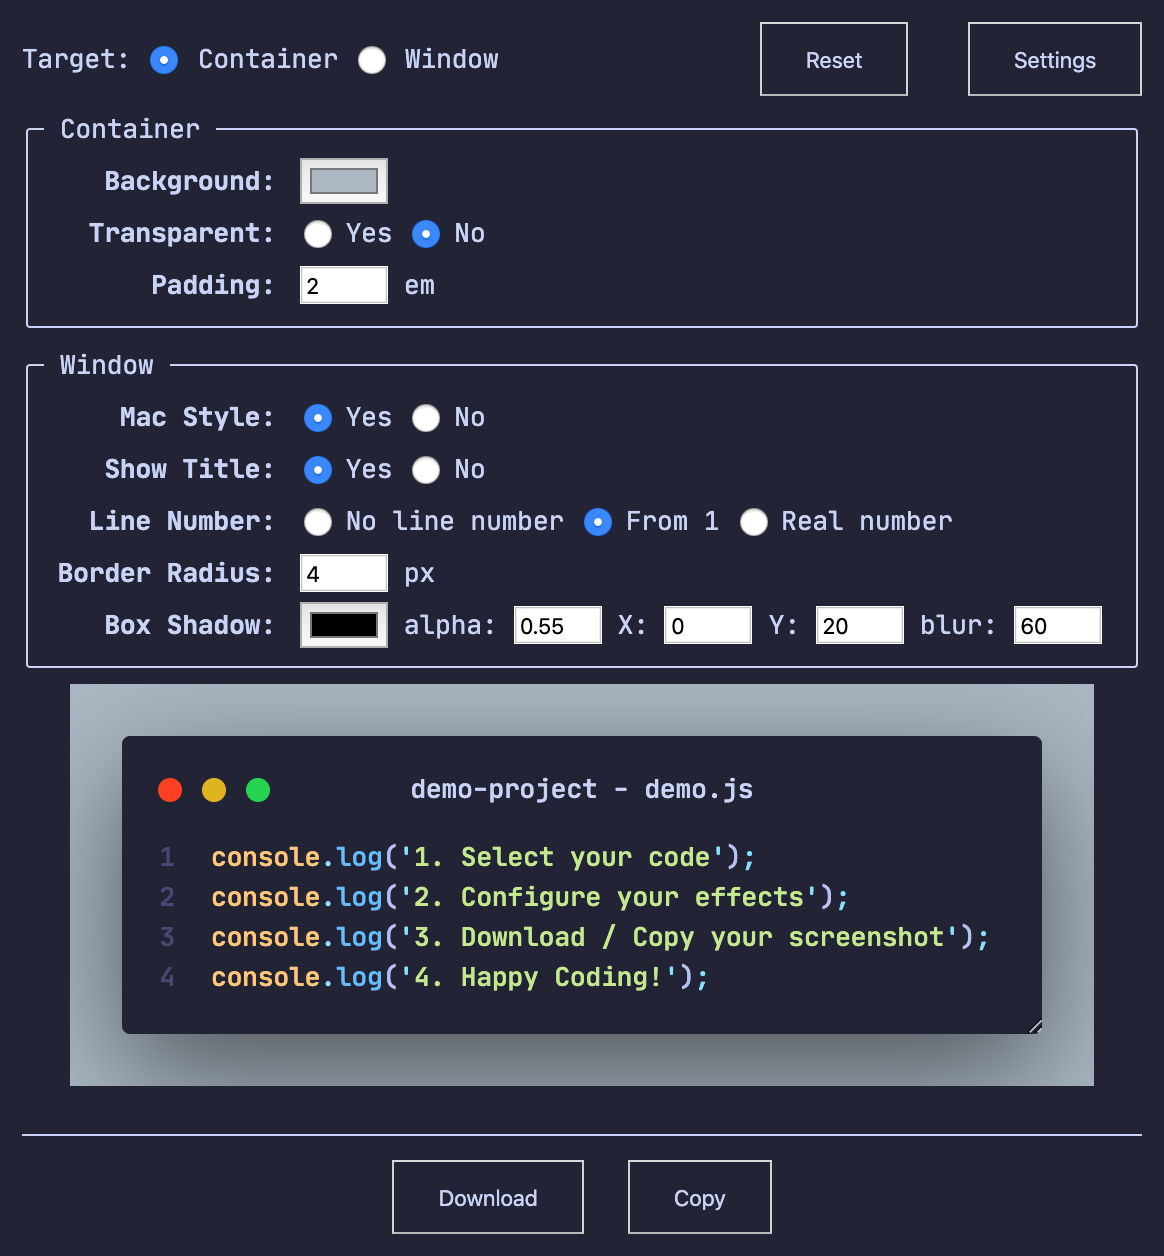
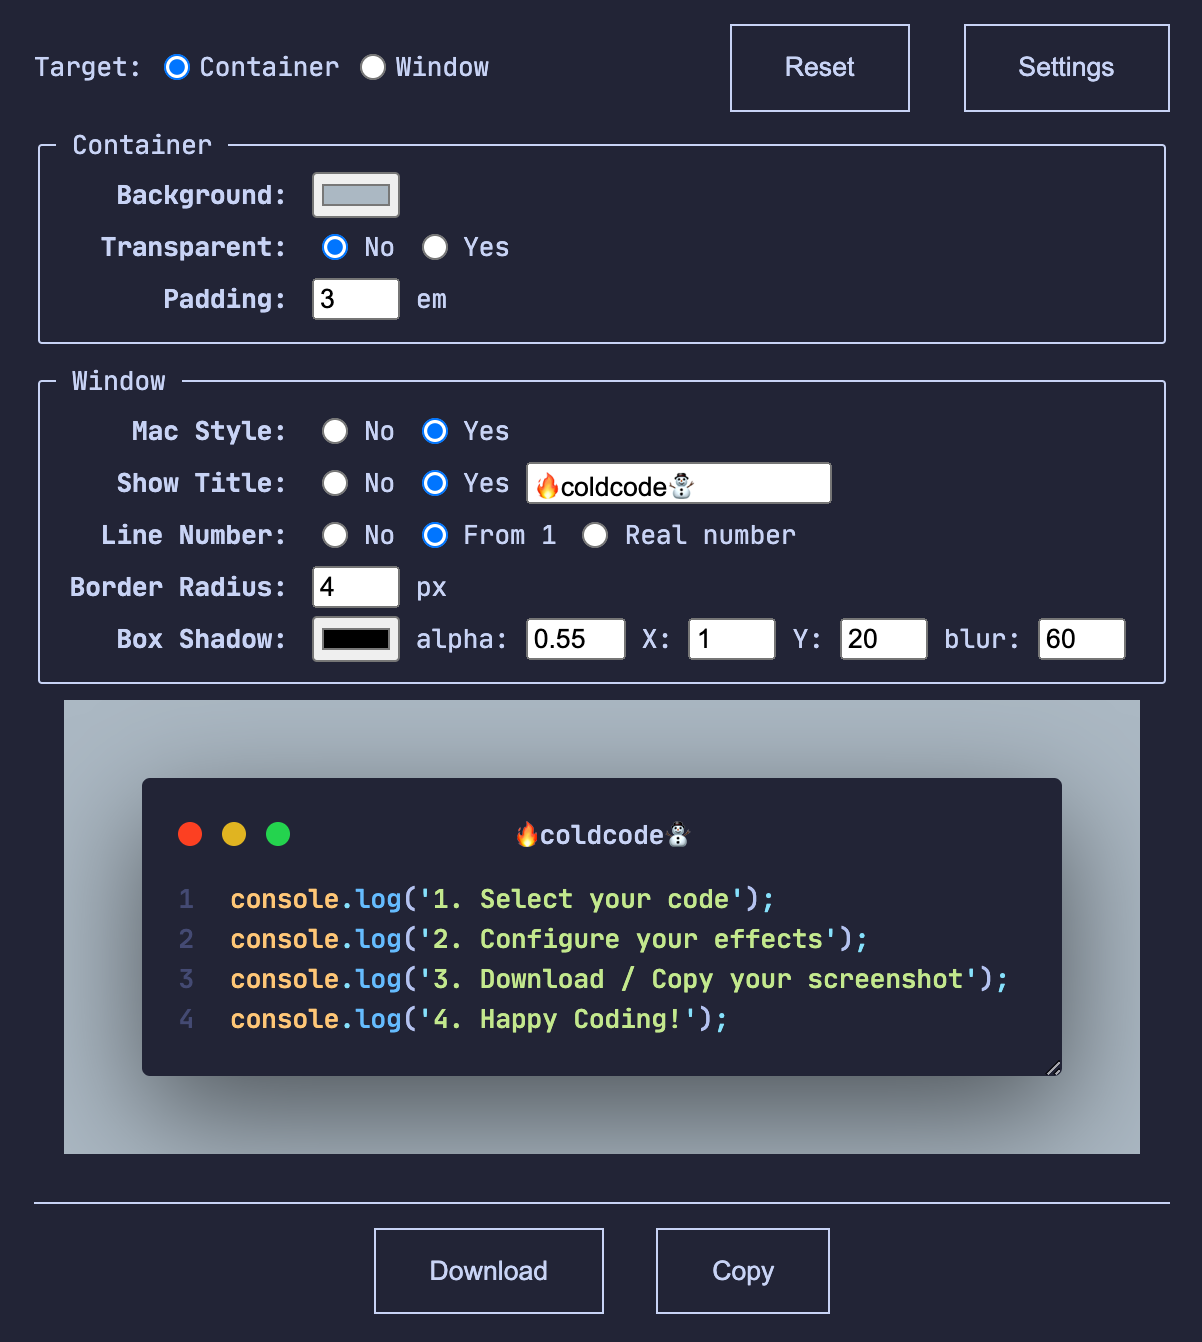
add custom title support

diff --git a/src/webview/index.html b/src/webview/index.html
@@ -14,8 +14,8 @@
   </head>
   <body>
     <header>
-      <form name="cfg-form">
-        <div class="cfg-section">
+      <form name="cfg-form" onsubmit="return false">
+        <div class="cfg-section cfg-section-head">
           <div>
             <span>Target:</span>
             <input type="radio" id="cfg-target-container" name="cfg-target" value="container" />
@@ -24,8 +24,8 @@
             <label for="cfg-target-window">Window</label>
           </div>
           <div>
-            <button class="reset-config hide">Reset</button>
-            <button class="toggle-config">Settings</button>
+            <button type="button" class="reset-config hide">Reset</button>
+            <button type="button" class="toggle-config">Settings</button>
           </div>
         </div>
 
@@ -38,10 +38,10 @@
             </div>
             <div>
               <span class="cfg-title">Transparent:</span>
-              <input type="radio" id="cfg-bgTransparent-1" name="cfg-bgTransparent" value="1" />
-              <label for="cfg-bgTransparent-1">Yes</label>
               <input type="radio" id="cfg-bgTransparent-0" name="cfg-bgTransparent" value="0" />
               <label for="cfg-bgTransparent-0">No</label>
+              <input type="radio" id="cfg-bgTransparent-1" name="cfg-bgTransparent" value="1" />
+              <label for="cfg-bgTransparent-1">Yes</label>
             </div>
             <div>
               <span class="cfg-title">Padding:</span>
@@ -55,22 +55,23 @@
             <legend>Window</legend>
             <div>
               <span class="cfg-title">Mac Style:</span>
-              <input type="radio" id="cfg-showControls-1" name="cfg-showControls" value="1" />
-              <label for="cfg-showControls-1">Yes</label>
               <input type="radio" id="cfg-showControls-0" name="cfg-showControls" value="0" />
               <label for="cfg-showControls-0">No</label>
+              <input type="radio" id="cfg-showControls-1" name="cfg-showControls" value="1" />
+              <label for="cfg-showControls-1">Yes</label>
             </div>
             <div>
               <span class="cfg-title">Show Title:</span>
-              <input type="radio" id="cfg-showTitle-1" name="cfg-showTitle" value="1" />
-              <label for="cfg-showTitle-1">Yes</label>
               <input type="radio" id="cfg-showTitle-0" name="cfg-showTitle" value="0" />
               <label for="cfg-showTitle-0">No</label>
+              <input type="radio" id="cfg-showTitle-1" name="cfg-showTitle" value="1" />
+              <label for="cfg-showTitle-1">Yes</label>
+              <input type="text" name="customTitle" id="customTitle" placeholder="custom title" />
             </div>
             <div>
               <span class="cfg-title">Line Number:</span>
               <input type="radio" id="cfg-lineNumber-0" name="cfg-lineNumber" value="0" />
-              <label for="cfg-lineNumber-0">No line number</label>
+              <label for="cfg-lineNumber-0">No</label>
               <input type="radio" id="cfg-lineNumber-1" name="cfg-lineNumber" value="1" />
               <label for="cfg-lineNumber-1">From 1</label>
               <input type="radio" id="cfg-lineNumber-2" name="cfg-lineNumber" value="2" />
@@ -112,8 +113,8 @@
     </main>
 
     <footer class="actions">
-      <button class="download">Download</button>
-      <button class="copy">Copy</button>
+      <button type="button" class="download">Download</button>
+      <button type="button" class="copy">Copy</button>
     </footer>
 
     <div id="flash-fx"></div>

diff --git a/src/webview/style.css b/src/webview/style.css
@@ -29,6 +29,23 @@ footer {
 header .cfg-section {
   margin-bottom: 8px;
   overflow: hidden;
+  font-size: 13px;
+}
+
+header .cfg-section-head {
+  display: flex;
+  justify-content: space-between;
+  align-items: center;
+  flex-wrap: wrap-reverse;
+}
+
+header .cfg-section-head > div {
+  display: flex;
+  align-items: center;
+}
+
+header .cfg-section-head > div:first-child > * {
+  margin-right: 5px;
 }
 
 header .cfg-section-container,
@@ -42,12 +59,6 @@ header .cfg-section-container.show {
 }
 header .cfg-section-window.show {
   height: 160px;
-}
-
-header .cfg-section:first-child {
-  display: flex;
-  justify-content: space-between;
-  align-items: center;
 }
 
 header .cfg-section fieldset {
@@ -79,8 +90,16 @@ header .cfg-section .cfg-title {
   padding-right: 4px;
 }
 
+header .cfg-section input[type='radio'] {
+  margin-bottom: 3px;
+}
+
 header .cfg-section input[type='number'] {
   width: 44px;
+}
+
+header .cfg-section input[name='cfg-boxShadowAlpha'] {
+  width: 50px;
 }
 
 footer {
@@ -101,6 +120,7 @@ button {
   outline: none;
   background: var(--vscode-editor-background);
   color: var(--vscode-editor-foreground);
+  border: solid 1px var(--vscode-editor-foreground);
 }
 
 button:hover {
@@ -141,18 +161,19 @@ button + button {
 .mac-window > .navbar {
   overflow: hidden;
   text-align: center;
-  margin-bottom: 15px;
-  height: 18px;
+  margin-bottom: 13px;
+  height: 21px;
 }
 
 .mac-window > .navbar > .navbar-title {
   margin: 0 70px;
+  line-height: 21px;
 }
 
 .mac-window > .navbar > .navbar-controls {
   display: flex;
   float: left;
-  margin-top: 3px;
+  margin-top: 4px;
 }
 
 .dot {

diff --git a/src/webview/scripts/main.js b/src/webview/scripts/main.js
@@ -127,7 +127,8 @@ const setLineNumber = () => {
 const updateTitle = () => {
   const { windowTitle = 'coldcode' } = editorInfo;
   const titleNode = $('.code-container .navbar-title');
-  titleNode.textContent = windowTitle;
+  const customTitle = $('#customTitle').value || '';
+  titleNode.textContent = customTitle.trim() || windowTitle;
 };
 
 const setBoxShadow = () => {
@@ -158,6 +159,7 @@ const onCfgChange = () => {
 
   showControls === '1' ? delClass('hide', controlsNode) : addClass('hide', controlsNode);
   showTitle === '1' ? delClass('hide', titleNode) : addClass('hide', titleNode);
+  showTitle === '1' ? delClass('hide', $('#customTitle')) : addClass('hide', $('#customTitle'));
   showTitle === '0' && showControls === '0' ? addClass('hide', navNode) : delClass('hide', navNode);
 
   if (bgTransparent === '1' || target === 'window') {
@@ -225,6 +227,11 @@ $('.toggle-config').addEventListener('click', () => {
   cfgContainer.classList.toggle('show');
   cfgWindow.classList.toggle('show');
   $('.reset-config').classList.toggle('hide');
+});
+
+$('#customTitle').addEventListener('input', updateTitle);
+$('#customTitle').addEventListener('paste', (e) => {
+  e.preventDefault();
 });
 
 /**

diff --git a/CHANGELOG.md b/CHANGELOG.md
@@ -2,6 +2,11 @@
 
 All notable changes to the "ColdCode" extension will be documented in this file.
 
+## [1.1.0] - 2020-10-03
+
+- Custom title support
+- UI adjustment
+
 ## [1.0.0] - 2020-08-02
 
 - Initial release
